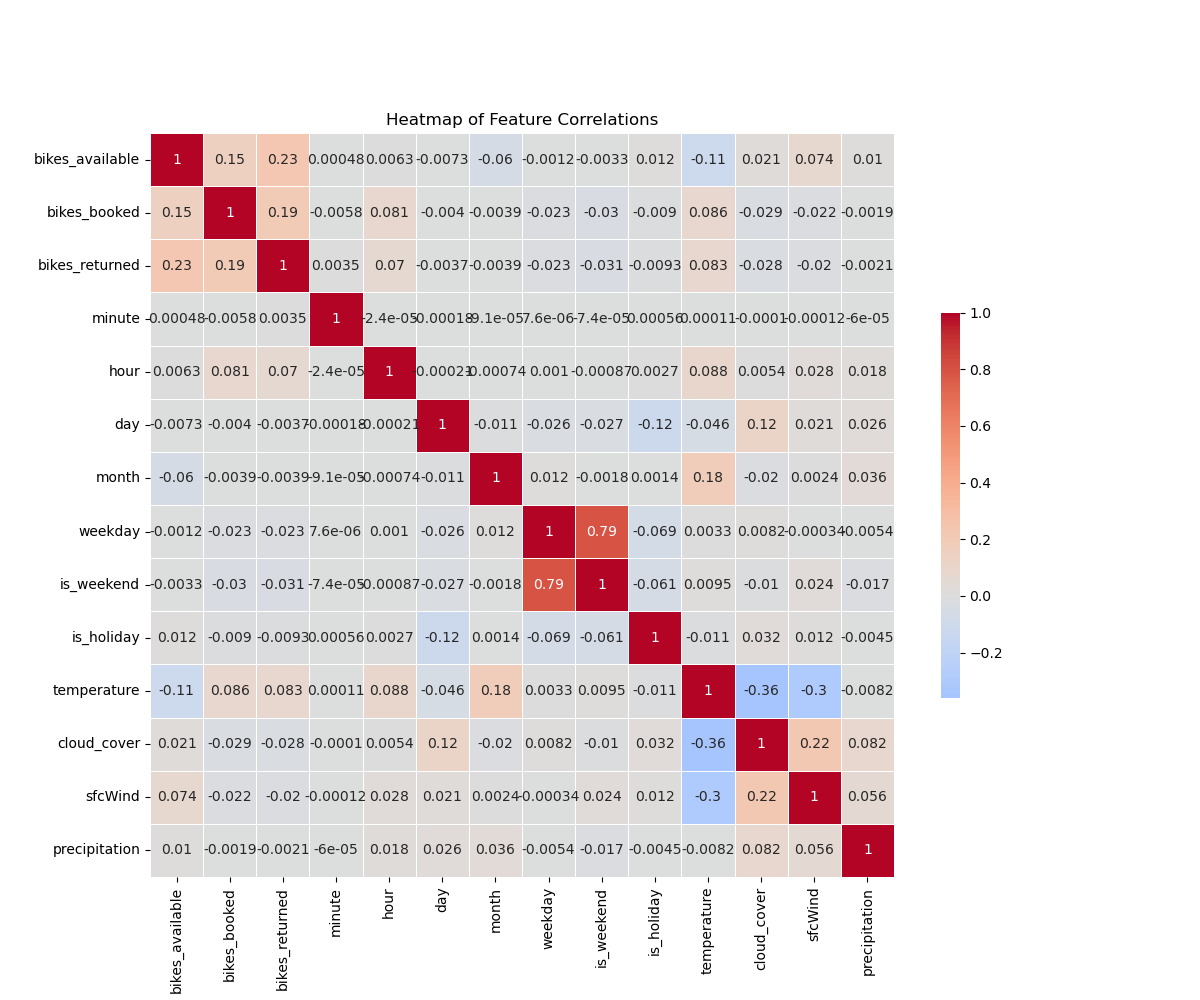
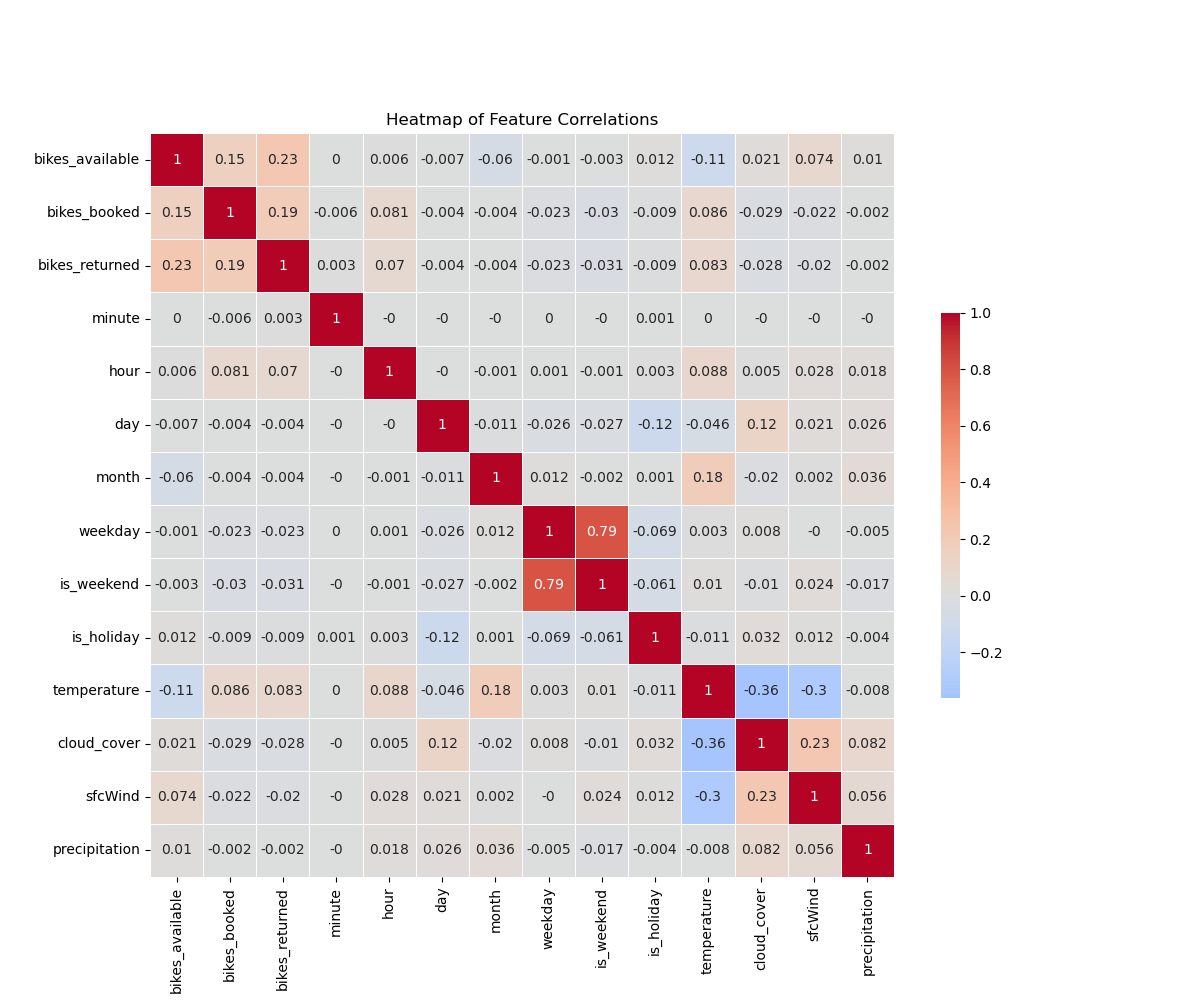
.

diff --git a/ready_for_modeling/data/clasifier.py b/ready_for_modeling/data/clasifier.py
@@ -38,9 +38,9 @@ def train_and_evaluate_classifier(classifier_name, thresholds, selected_features
         X_train, X_test, y_train, y_test = train_test_split(X, y, test_size=0.2, random_state=42)
 
         if classifier_name == 'RandomForest':
-            classifier = RandomForestClassifier(n_estimators=150, random_state=42)
+            classifier = RandomForestClassifier(n_estimators=100, random_state=42)
         elif classifier_name == 'GradientBoosting':
-            classifier = GradientBoostingClassifier(n_estimators=150, random_state=42)
+            classifier = GradientBoostingClassifier(n_estimators=100, random_state=42)
         elif classifier_name == 'XGBoost':
             classifier = XGBClassifier(n_estimators=200, random_state=42, use_label_encoder=False,
                                        eval_metric='logloss')
@@ -86,20 +86,20 @@ def train_and_evaluate_classifier(classifier_name, thresholds, selected_features
 train_and_evaluate_classifier(
     classifier_name='RandomForest',
     thresholds=[1, 2, 3, 4, 5],
-    selected_features=['minute','hour','day','month','temperature','cloud_cover','sfcWind','precipitation'],  # Replace with your feature names
-    output_dir='150_random_forest_output'
+    selected_features=['bikes_booked','bikes_returned','minute','hour','day','month','year','weekday','is_weekend','is_holiday','temperature','cloud_cover','sfcWind','precipitation'],  # Replace with your feature names
+    output_dir='all_random_forest_output'
 )
 
 train_and_evaluate_classifier(
     classifier_name='GradientBoosting',
     thresholds=[1, 2, 3, 4, 5],
-    selected_features=['minute','hour','day','month','temperature','cloud_cover','sfcWind','precipitation'],  # Replace with your feature names
-    output_dir='150_gradient_boosting_output'
+    selected_features=['bikes_booked','bikes_returned','minute','hour','day','month','year','weekday','is_weekend','is_holiday','temperature','cloud_cover','sfcWind','precipitation'],  # Replace with your feature names
+    output_dir='all_gradient_boosting_output'
 )
 
 train_and_evaluate_classifier(
     classifier_name='XGBoost',
     thresholds=[1, 2, 3, 4, 5],
-    selected_features=['minute','hour','day','month','temperature','cloud_cover','sfcWind','precipitation'],  # Replace with your feature names
-    output_dir='200_xgboost_output'
+    selected_features=['bikes_booked','bikes_returned','minute','hour','day','month','year','weekday','is_weekend','is_holiday','temperature','cloud_cover','sfcWind','precipitation'],  # Replace with your feature names
+    output_dir='all_xgboost_output'
 )

diff --git a/Data/preprocessed_data/Checked_preprocessed_data/LTSM.py b/Data/preprocessed_data/Checked_preprocessed_data/LTSM.py
@@ -9,17 +9,15 @@ from sklearn.metrics import accuracy_score
 from keras.models import Sequential
 from keras.layers import LSTM, Dense
 from keras.callbacks import EarlyStopping
-
+import tensorflow as tf
 
 # Load the data from the CSV file
-csv_file = 'combined_city_data.csv'  # Replace with the path to your CSV file
+csv_file = 'combined_citys/combined_city_data.csv'  # Replace with the path to your CSV file
 original_df = pd.read_csv(csv_file)
-
 
 # Function to convert 'bikes_available' to a binary target variable based on a threshold
 def convert_target(data, threshold):
     return data['bikes_available'].apply(lambda x: 0 if x <= threshold else 1)
-
 
 # List of thresholds to test
 thresholds = [1, 2, 3, 4, 5]
@@ -31,6 +29,9 @@ os.makedirs(output_dir, exist_ok=True)
 # Initialize a dictionary to store accuracies
 results = {'Threshold': [], 'Accuracy': []}
 
+# List of features to exclude
+exclude_features = ['lon', 'lat', 'minute', 'hour', 'day', 'month', 'year']
+
 for threshold in thresholds:
     # Create a fresh copy of the original DataFrame for each threshold
     df = original_df.copy()
@@ -41,8 +42,8 @@ for threshold in thresholds:
     # Assuming there's a time component in the dataset, sort by it
     df = df.sort_values(by='time_column')  # Replace 'time_column' with the actual name of the time column
 
-    # Drop the original 'bikes_available' column as it is now the target
-    X = df.drop(columns=['bikes_available', 'target'])
+    # Drop the original 'bikes_available' column and exclude specified features
+    X = df.drop(columns=['bikes_available', 'target'] + exclude_features)
     y = df['target']
 
     # Normalize the data

diff --git a/ready_for_modeling/data/doodle.py b/ready_for_modeling/data/doodle.py
@@ -10,6 +10,8 @@ df = df.drop(columns='year')
 # Calculate the correlation matrix
 correlation_matrix = df.corr()
 
+correlation_matrix = correlation_matrix.round(3)
+
 # Set up the matplotlib figure
 plt.figure(figsize=(12, 10))
 
